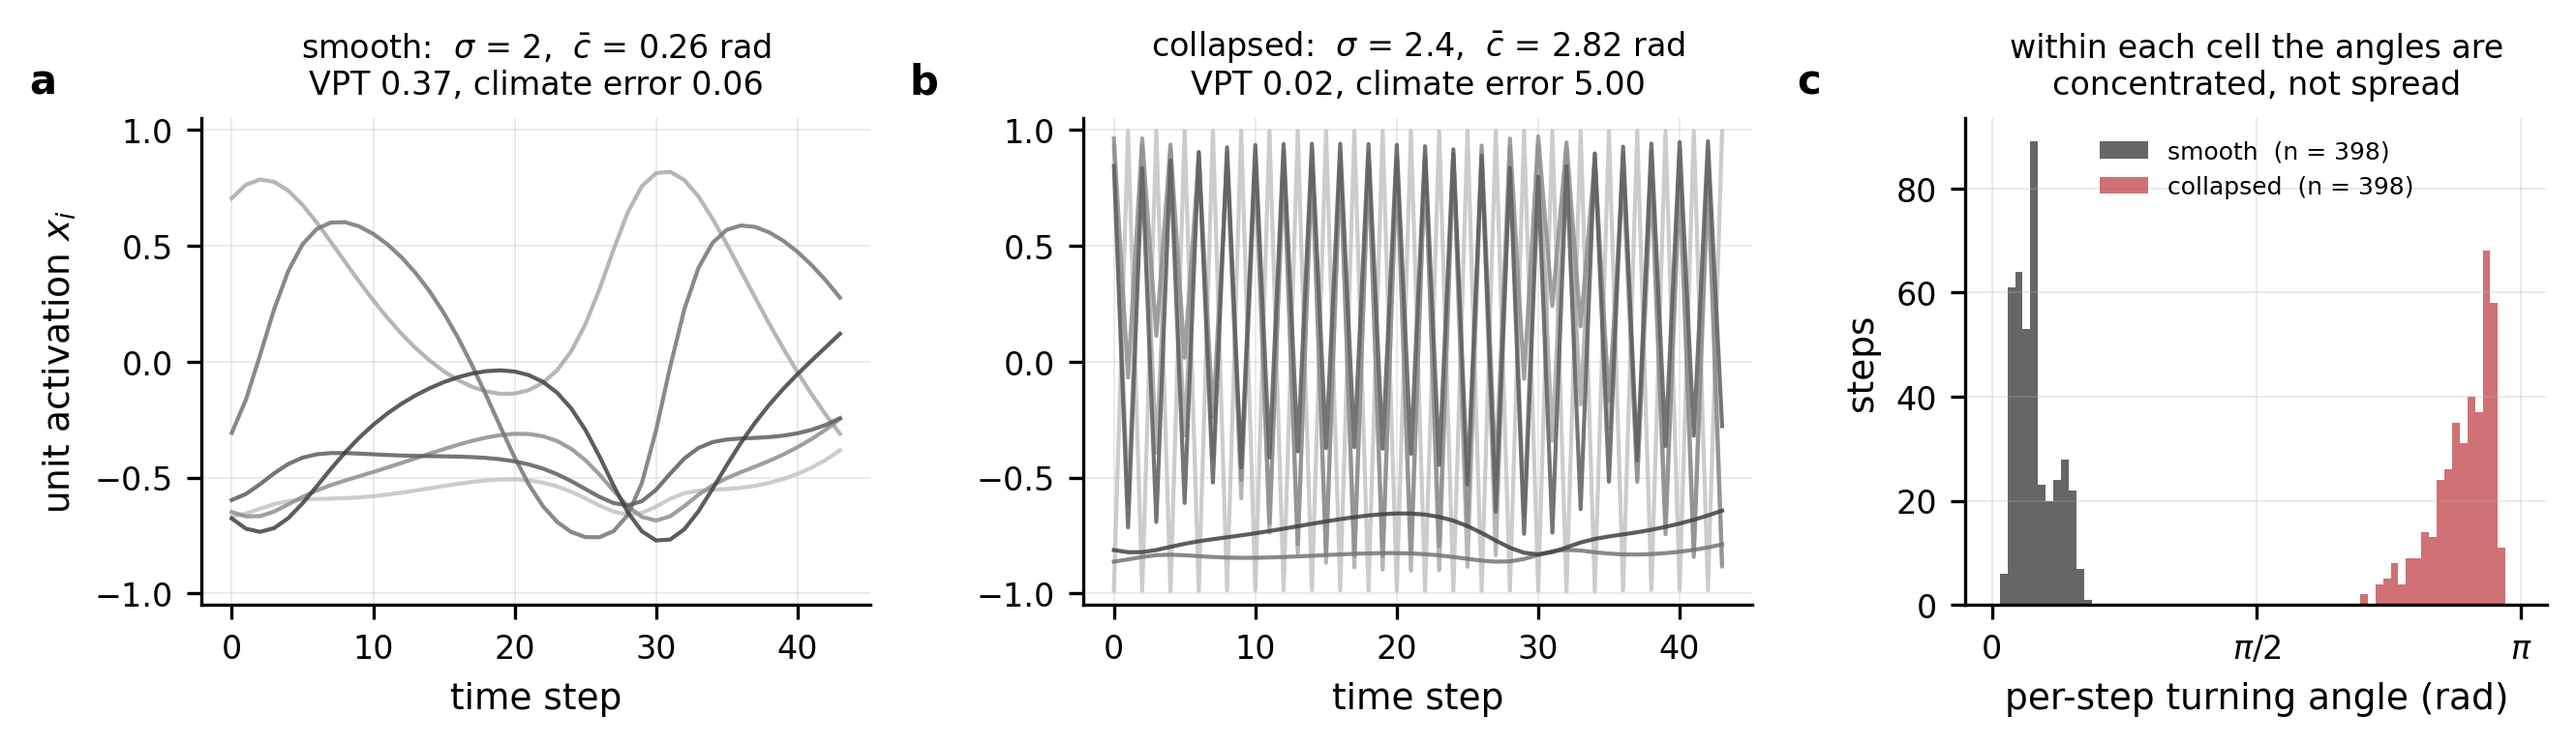
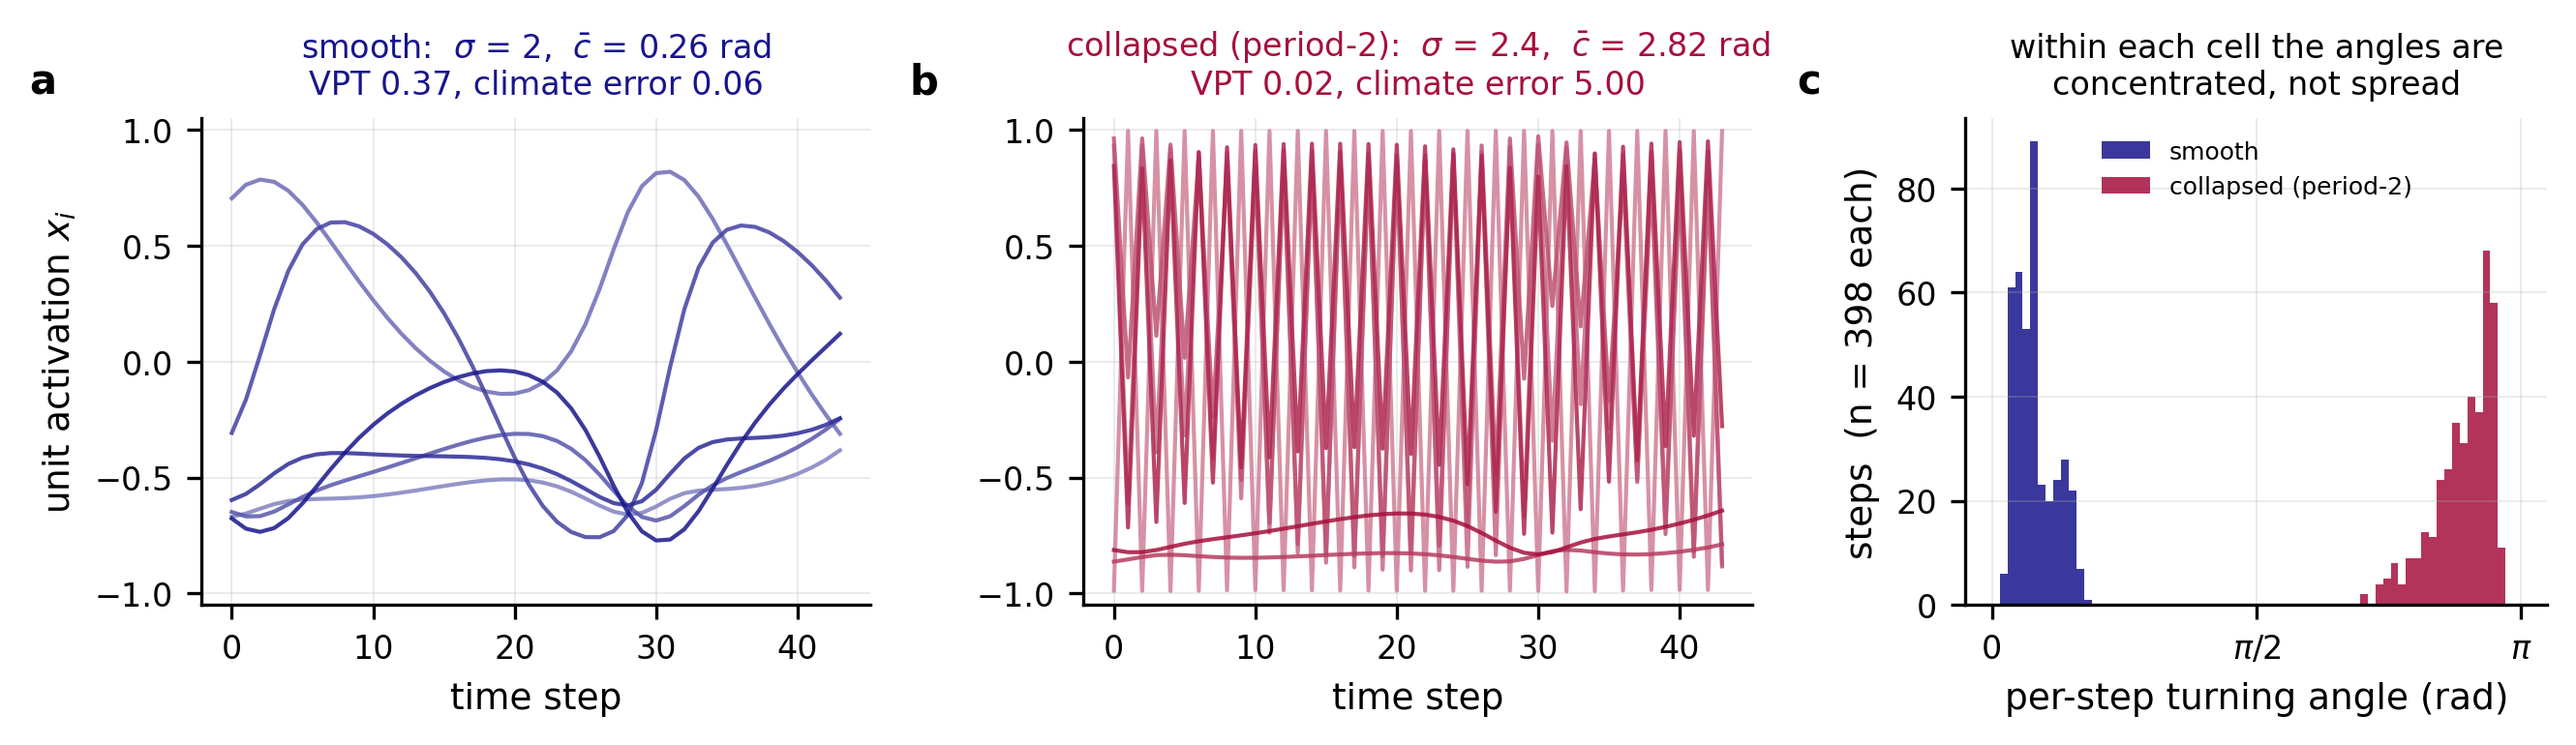
style(S2): move the curvature regimes onto REGIME_COLOUR
Closes the loose end act3b_prediction.md section 5 item 13 recorded. S2
contrasts the same two regimes F12 does but drew them in neutral grey and
the generic accent, which left it as the one place a regime was not in its
regime colour. Now indigo for smooth and crimson for collapsed, so a reader
who learned the encoding in F12 reads S2 without relearning it.

Within a trace panel, lightness separates the six units and carries no other
meaning, sampled over the saturated half of regime_cmap -- the pale end
exists for F12b's density maps and is too faint for a line. Panel titles take
the regime colour too, tying each panel to its legend entry in (c) without
spending a legend on panels holding one series each.

Two tidies came with it: the (c) legend was quoting the same n twice, so it
moved to the y axis, and an assertion now guards that both regimes really are
read over the same window rather than that having been assumed.

diff --git a/report/figlib/figures/act3_prediction.py b/report/figlib/figures/act3_prediction.py
@@ -783,6 +783,12 @@ def s2_curvature_regimes(ctx):
     where curvature is flat at 0.26 rad across the entire sweep and there is nothing to
     draw.
 
+    **Colour is `style.REGIME_COLOUR`, the same pair F12 uses** (added 20 August 2026,
+    closing the loose end that item 13 of `act3b_prediction.md` §5 recorded). One regime,
+    one colour, across both figures: a reader who has learned indigo-is-smooth and
+    crimson-is-collapsed in F12 reads S2 without relearning anything. Within a panel,
+    lightness separates the six units and carries no other meaning.
+
     **It shows a regime, not a capacity, and it is not a projection.** Panels (a) and (b)
     are raw unit traces and panel (c) is the per-step turning-angle distribution -- the
     quantity `mean_curvature` averages. Deliberately no PCA: a top-3 PCA trajectory is
@@ -800,16 +806,24 @@ def s2_curvature_regimes(ctx):
         row = frame.loc[regime]
         traces = np.asarray(row.unit_traces, float).reshape(row.n_steps, row.n_units)
         ax = axes[column]
+        # Shades within the panel's own regime colour, so hue says which regime and
+        # lightness only separates the six units. Sampled over the saturated half of the
+        # ramp: the pale end exists for density maps and is too faint for a line.
+        shades = style.regime_cmap(regime)(np.linspace(0.45, 1.0, row.n_units))
         for unit in range(row.n_units):
             ax.plot(np.arange(window), traces[:window, unit], lw=1.0, alpha=0.85,
-                    color=plt.cm.Greys(0.35 + 0.09 * unit))
+                    color=shades[unit])
         ax.set_xlabel("time step")
         ax.set_ylabel("unit activation $x_i$" if column == 0 else None)
         ax.set_ylim(-1.05, 1.05)
-        ax.set_title(f"{regime}:  " r"$\sigma$ = " f"{row.spectral_radius:g},  "
+        # The title takes the regime colour too, which ties panel to legend entry in (c)
+        # without spending a legend on panels that hold one series each.
+        ax.set_title(f"{style.REGIME_LABEL[regime]}:  " r"$\sigma$ = "
+                     f"{row.spectral_radius:g},  "
                      r"$\bar{c}$ = " f"{row.mean_curvature:.2f} rad\n"
                      f"VPT {row.vpt:.2f}, climate error {row.climate_error:.2f}",
-                     fontsize=style.TITLE_SIZE - 1)
+                     fontsize=style.TITLE_SIZE - 1,
+                     color=style.REGIME_COLOUR[regime])
 
     # --- (c) the distribution the mean is a mean OF ------------------------------------
     # This is the panel that earns the figure. F12 plots the mean curvature per cell and
@@ -818,13 +832,18 @@ def s2_curvature_regimes(ctx):
     # regime rather than averaging a spread. That is the difference between "gated" and
     # "graded" seen from inside one cell.
     bins = np.linspace(0, np.pi, 70)
-    for regime, shade in (("smooth", "0.25"), ("collapsed", style.ANNOTATION_ACCENT)):
+    sizes = set()
+    for regime in ("smooth", "collapsed"):
         row = frame.loc[regime]
         angles = np.asarray(row.turning_angles, float)
-        axes[2].hist(angles, bins=bins, color=shade, alpha=0.8,
-                     label=f"{regime}  (n = {angles.size})")
+        sizes.add(angles.size)
+        axes[2].hist(angles, bins=bins, color=style.REGIME_COLOUR[regime], alpha=0.85,
+                     label=style.REGIME_LABEL[regime])
+    # Both cells are read over the same window, so quoting n twice in the legend was
+    # repeating one number. It goes on the axis instead.
+    assert len(sizes) == 1, f"S2: the two regimes hold different step counts {sizes}"
     axes[2].set_xlabel("per-step turning angle (rad)")
-    axes[2].set_ylabel("steps")
+    axes[2].set_ylabel(f"steps  (n = {sizes.pop()} each)")
     axes[2].set_xticks([0, np.pi / 2, np.pi])
     axes[2].set_xticklabels(["0", r"$\pi/2$", r"$\pi$"])
     axes[2].set_title("within each cell the angles are\nconcentrated, not spread",

diff --git a/report/act3b_prediction.md b/report/act3b_prediction.md
@@ -431,7 +431,9 @@ One block per figure ID from `FIGURE_LIST.md`. **Caption written before the figu
   carry no such implication.
 - **Caption (final wording):** *What the two curvature regimes look like in time.* One
   substrate (connectome, `f` = 0.25, one seed) at two spectral radii **one grid step
-  apart**, so the regime is the only thing that differs. (a) Below the transition the
+  apart**, so the regime is the only thing that differs. Colour is the regime throughout,
+  and is the same pair F12 uses: indigo for smooth, crimson for collapsed. Within a
+  panel, lightness separates the six units and means nothing else. (a) Below the transition the
   most active units trace smooth, slowly turning trajectories; mean curvature 0.26 rad,
   VPT 0.37, climate error 0.06. (b) One grid step above, the same units alternate sign
   every step — successive velocity vectors antiparallel; mean curvature 2.82 rad, VPT
@@ -697,9 +699,17 @@ written by hand, not generated (see the roadmap §4b note on drafting).
     load-bearing. If a figure ever needs the two regimes interleaved along one axis, this
     pair is wrong for it, and that is a scope question rather than a palette one.
 
-    **S2 should follow.** It contrasts the same two regimes and currently draws them in
-    neutral grey and the generic accent, so it is the one remaining place where a regime
-    is not in its regime colour. Not changed here, because S2 has not been reviewed yet.
+    **S2 follows, and the loose end is closed.** It contrasts the same two regimes and
+    drew them in neutral grey and the generic accent; it now uses `REGIME_COLOUR` too.
+    One regime, one colour, across both figures — a reader who has learned
+    indigo-is-smooth and crimson-is-collapsed in F12 reads S2 without relearning
+    anything. Within an S2 trace panel, **lightness separates the six units and carries
+    no other meaning**, sampled over the saturated half of `regime_cmap` because the pale
+    end exists for F12b's density maps and is too faint for a line. The panel titles take
+    the regime colour as well, which ties each panel to its legend entry in (c) without
+    spending a legend on panels that hold one series each. Two small tidies came with it:
+    the legend was quoting the same n twice, so it moved to the y axis, and an assertion
+    now guards that the two regimes really are read over the same window.
 
 11. **What this act ran, and what it deliberately did not.** Two captures, both on the
     laptop, both costed from a measured cell of the real code path (**1.27 s/cell**, not a
